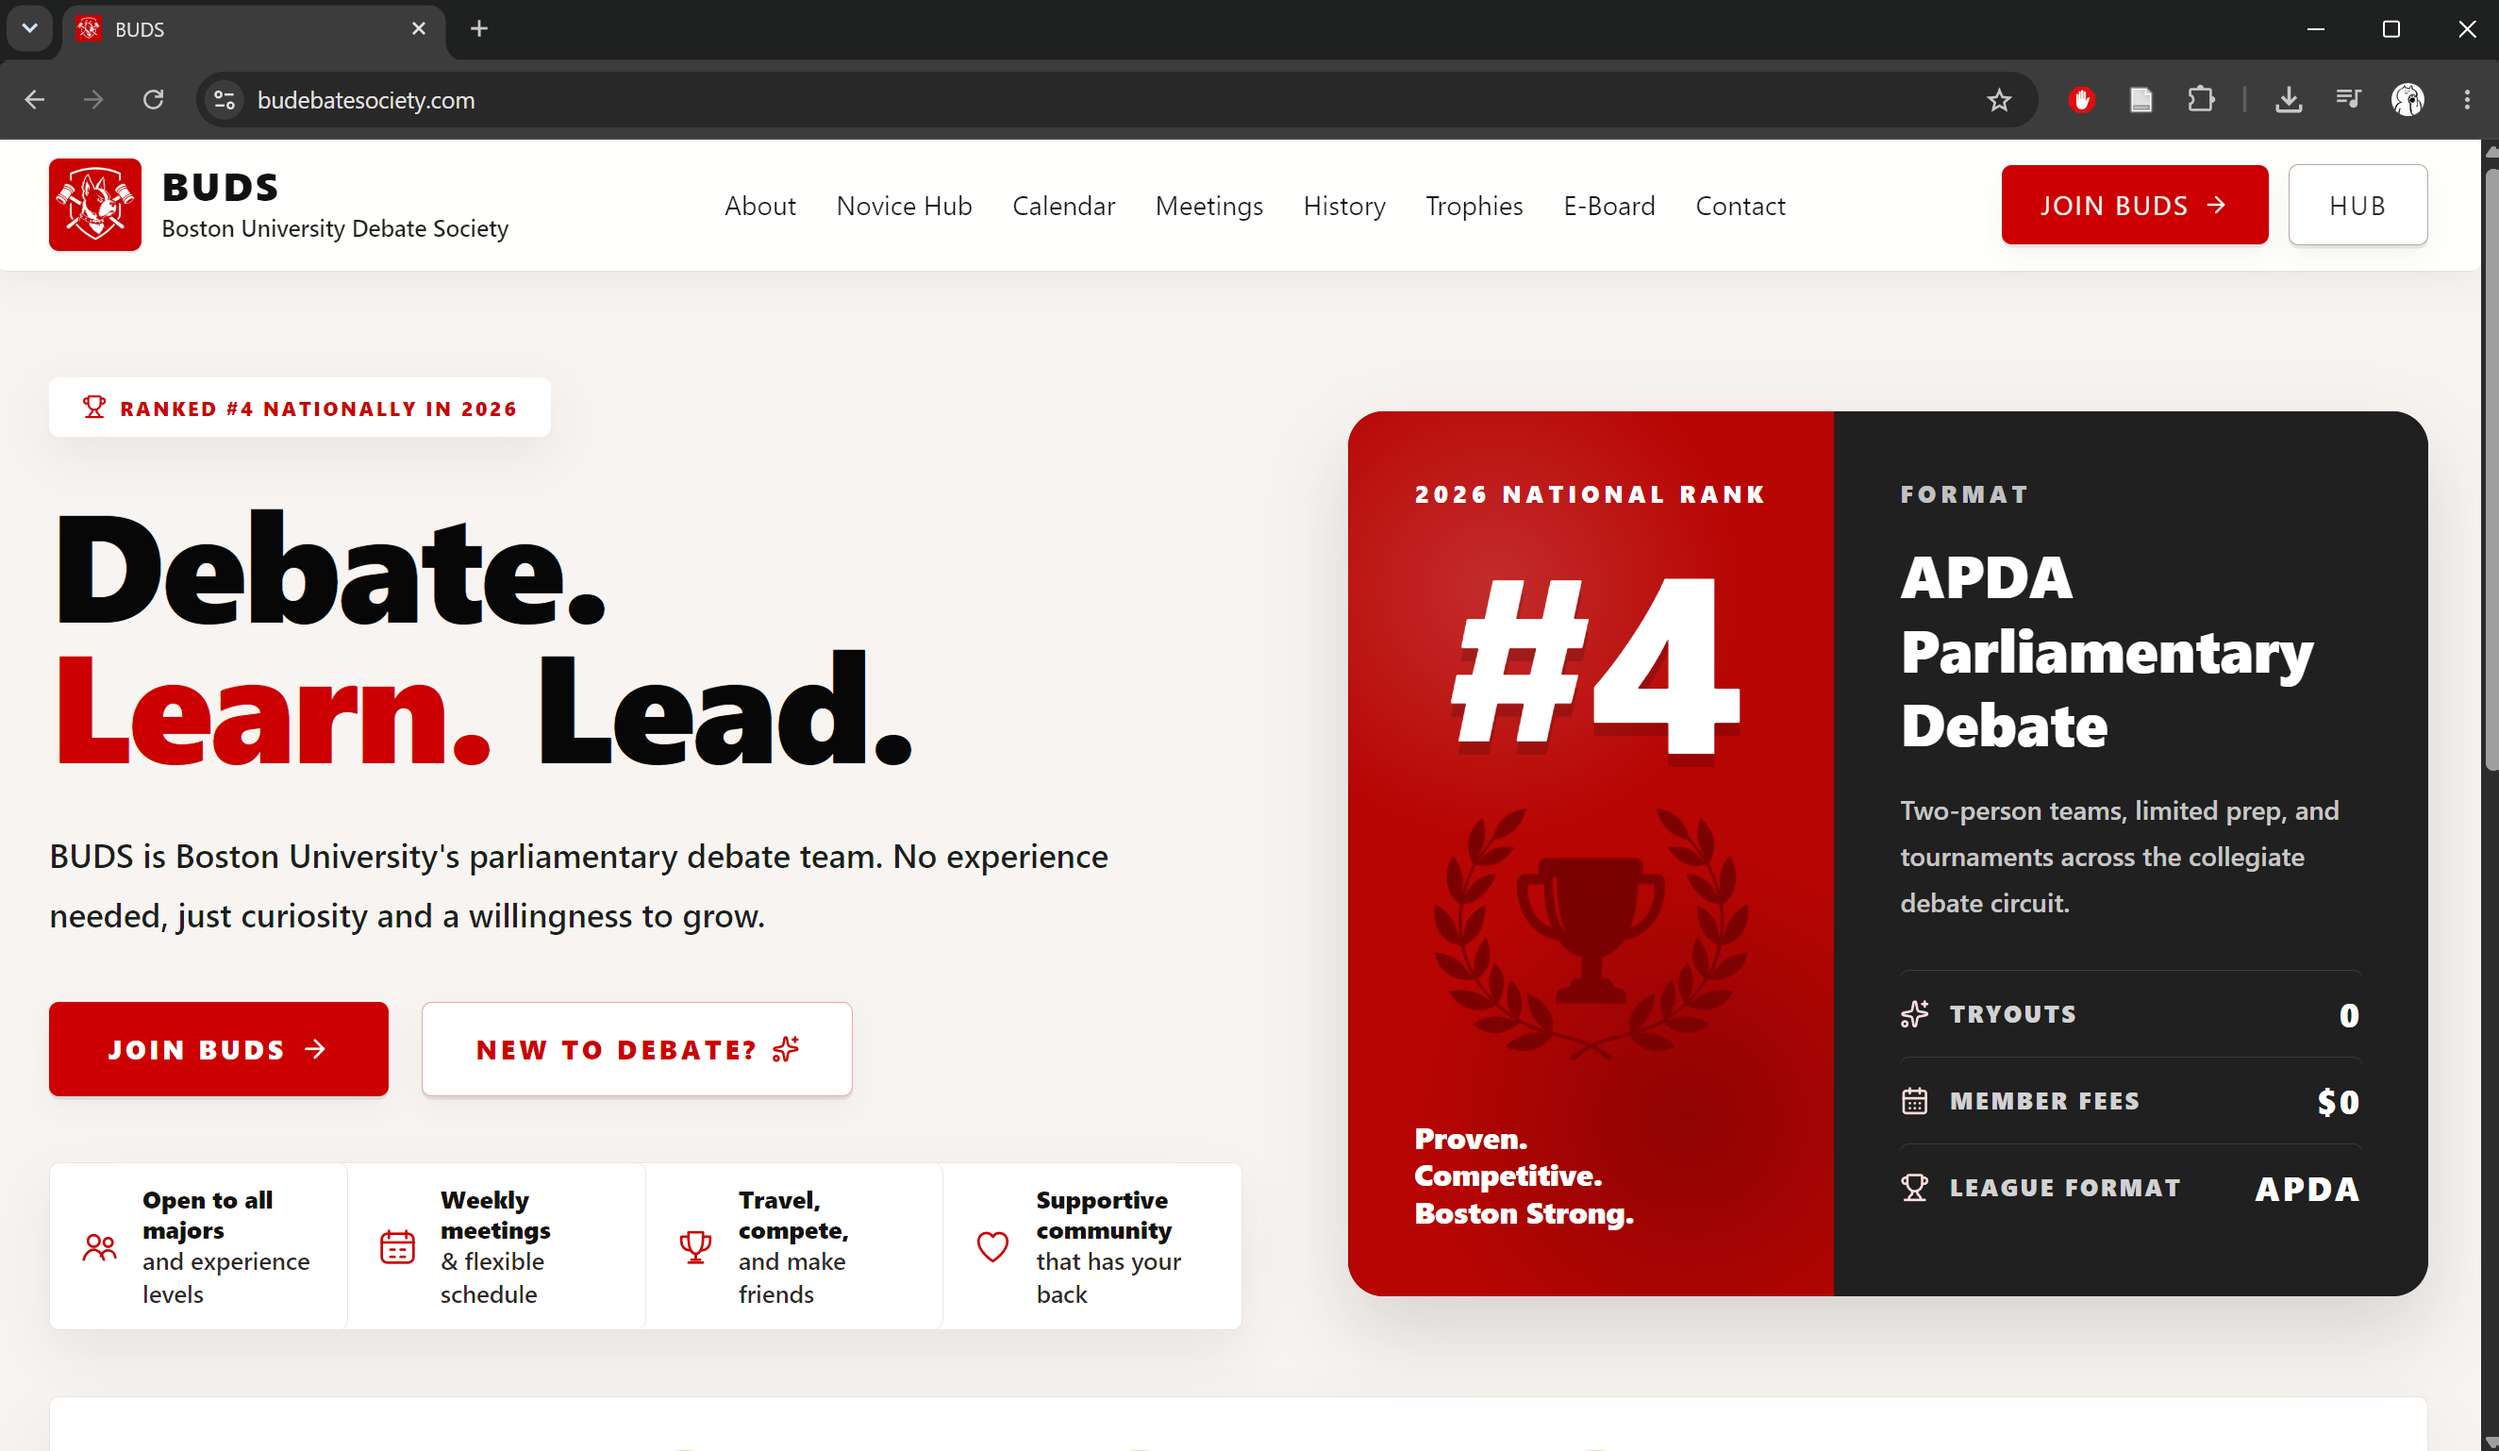
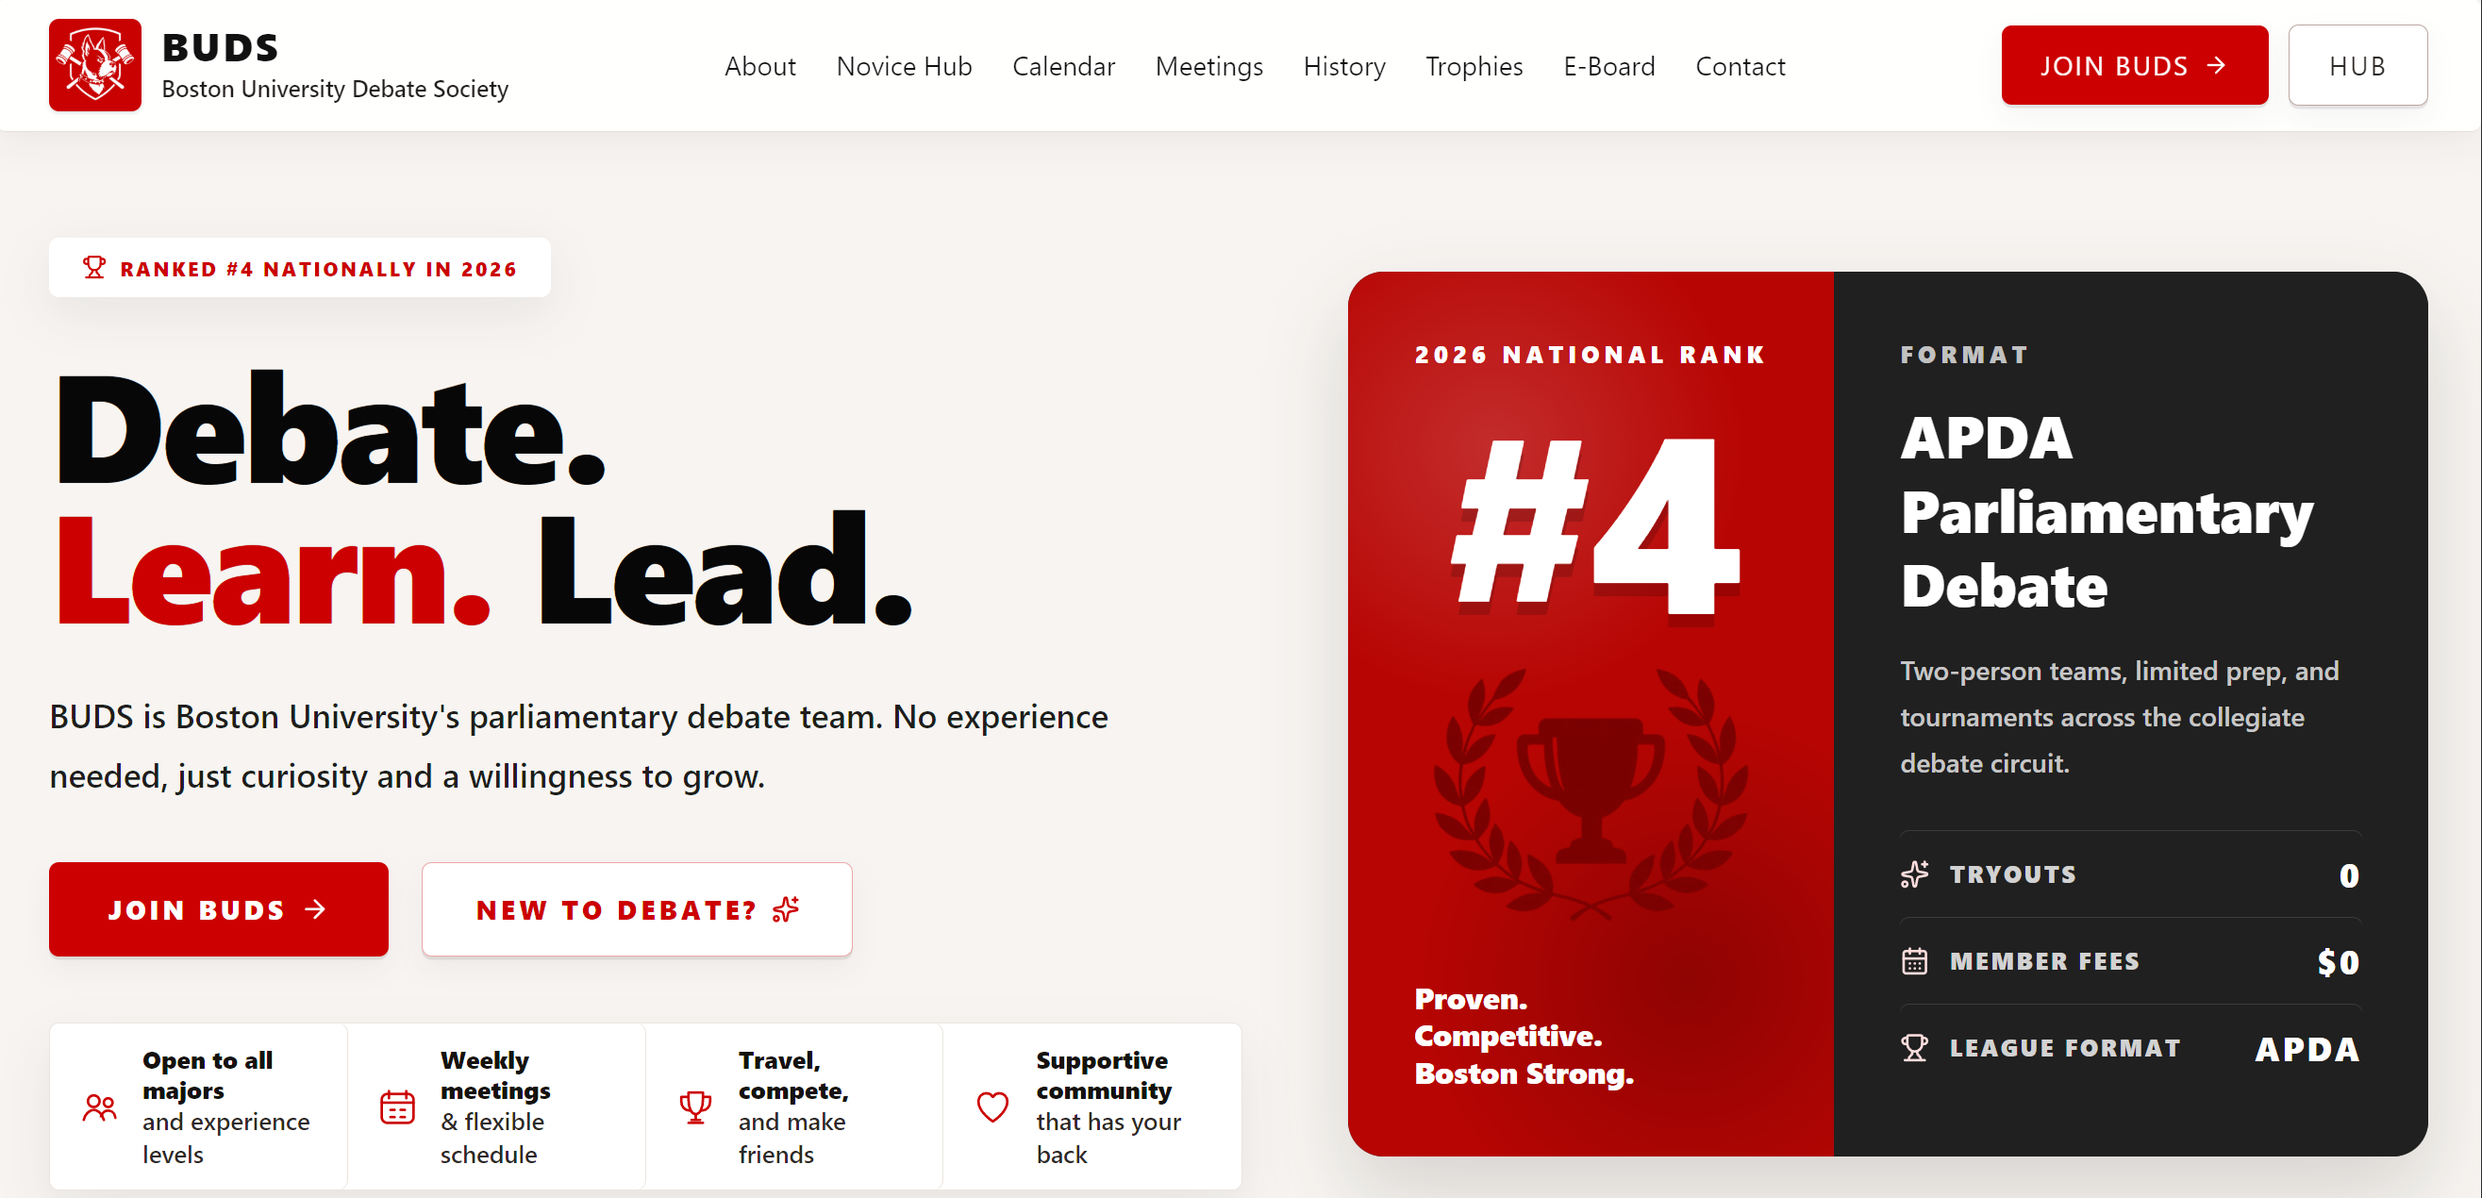
Improve BUDS project preview

diff --git a/index.css b/index.css
@@ -845,7 +845,7 @@ header .toggle.active{
     align-items: center;
     display: flex;
     justify-content: center;
-    width: min(52%, 760px);
+    width: min(52%, 860px);
 }
 
 .projectPreviewImage
@@ -858,12 +858,25 @@ header .toggle.active{
     height: auto;
     max-width: 100%;
     padding-right: 0;
-    width: min(100%, 780px);
+    width: min(100%, 900px);
 }
 
 .altTechnology
 {
+    align-items: flex-start;
     background: #415a77;
+    gap: 60px;
+}
+
+.altTechnology .contentBox
+{
+    padding-top: 12px;
+}
+
+.altTechnology .projectPanel
+{
+    justify-content: flex-end;
+    width: min(54%, 920px);
 }
 
 .policySkills
@@ -945,6 +958,22 @@ header .toggle.active{
 
     .projectPanel
     {
+        width: 100%;
+    }
+
+    .altTechnology
+    {
+        gap: 32px;
+    }
+
+    .altTechnology .contentBox
+    {
+        padding-top: 0;
+    }
+
+    .altTechnology .projectPanel
+    {
+        justify-content: center;
         width: 100%;
     }
 
